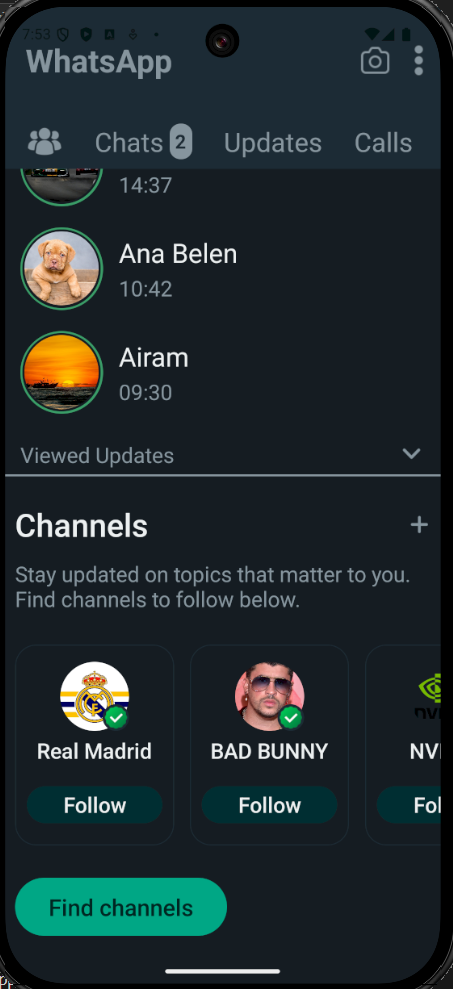
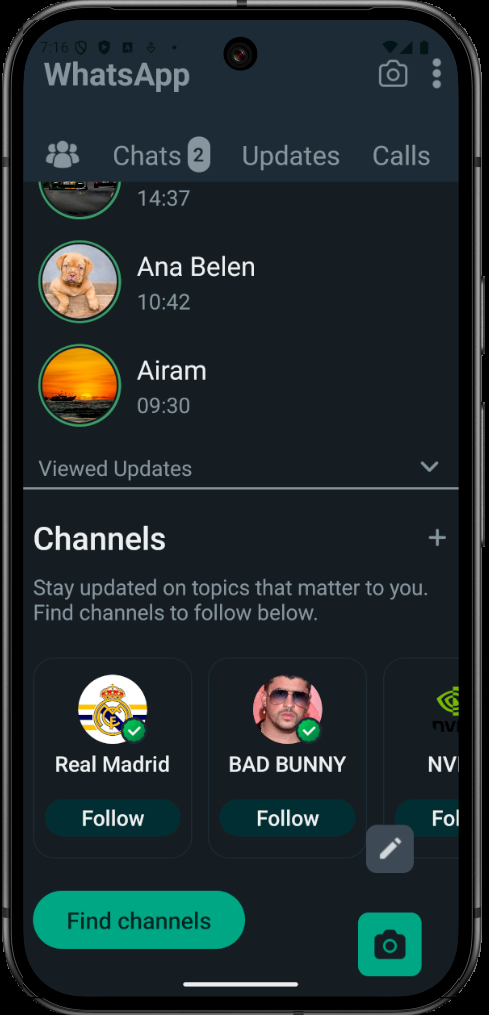
fix: agregados iconos para los botones sobre puestos y corregidos los textos de los readmes.md

diff --git a/docs/primera_parte.md b/docs/primera_parte.md
@@ -1,7 +1,7 @@
 ## 🎨 Obtención de los códigos de color
 
-Para definir la paleta de colores de la aplicación, se utilizó la herramienta integrada de selección de color de Windows.
-Esta herramienta permite obtener el código hexadecimal de cualquier color visible en la pantalla.
+Para definir la paleta de colores de la aplicación, se utilizó la herramienta de selección de color de Windows.
+Esta herramienta permite obtener el código hexadecimal de cualquier color visible en la pantalla pasando el mouse por encima.
 
 ## 🧭 Activación de la herramienta
 
@@ -11,6 +11,8 @@ Ctrl + Windows + C
 
 Al activarla, el sistema muestra un cursor que permite seleccionar un color en cualquier parte de la pantalla.
 El color seleccionado se copia automáticamente en formato hexadecimal (#RRGGBB).
+
+![Selector de colores.ts](../docs/images/herramienta_selector_colores.png)
 
 ## 📁 Archivo de colores
 

diff --git a/README.md b/README.md
@@ -8,3 +8,11 @@ A continuación se listan los apartados del proyecto con sus explicaciones detal
 - [Iconos implementados: ](./docs//cuarta_parte.md)
 
 ### Comparación de Apliaciones
+
+## Captura de aplicacion a realizar
+
+![componente destrucutrado](./docs/images/Captura_proyecto.png)
+
+## Aplicacion realizada
+
+![componente destrucutrado](./docs/images/Terminado.png)
